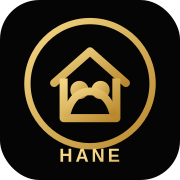
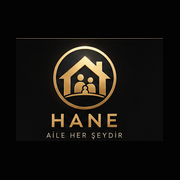
Add files via upload

diff --git a/app-v19.js b/app-v19.js
@@ -30,14 +30,31 @@ const money=n=>new Intl.NumberFormat('tr-TR',{style:'currency',currency:'TRY',ma
 const upper=v=>String(v??'').toLocaleUpperCase('tr-TR');
 function haneLogo(size=54,cls=''){
   const n=Math.max(28,Number(size)||54);
-  return `<svg class="haneLogo ${cls}" width="${n}" height="${n}" viewBox="0 0 100 100" aria-label="HANE">
-    <circle cx="50" cy="50" r="45" fill="none" stroke="currentColor" stroke-width="4"/>
-    <path d="M25 48 L50 27 L75 48" fill="none" stroke="currentColor" stroke-width="5" stroke-linecap="round" stroke-linejoin="round"/>
-    <path d="M31 45 V72 H69 V45" fill="none" stroke="currentColor" stroke-width="5" stroke-linejoin="round"/>
-    <circle cx="43" cy="53" r="6" fill="currentColor"/>
-    <circle cx="58" cy="53" r="6" fill="currentColor"/>
-    <path d="M34 69c2-10 8-15 16-15s14 5 16 15" fill="none" stroke="currentColor" stroke-width="5" stroke-linecap="round"/>
-  </svg>`;
+  return `<img class="haneLogoImg ${cls}" src="icons/hane-v5-emblem.jpg" width="${n}" alt="HANE">`;
+}
+function haneFullLogo(cls=''){
+  return `<img class="haneFullLogo ${cls}" src="icons/hane-v5-logo.jpg" alt="HANE">`;
+}
+function premiumIcon(name,size=26){
+  const p={
+home:`<path d="M4 11.5 12 4l8 7.5"/><path d="M6.5 10v10h11V10"/><path d="M10 20v-6h4v6"/>`,
+transactions:`<path d="M6 5h12M6 10h12M6 15h8M6 20h10"/><circle cx="3" cy="5" r="1"/><circle cx="3" cy="10" r="1"/><circle cx="3" cy="15" r="1"/><circle cx="3" cy="20" r="1"/>`,
+fixed:`<rect x="4" y="5" width="16" height="15" rx="2"/><path d="M8 3v4M16 3v4M4 10h16M8 14h3M8 17h6"/>`,
+cards:`<rect x="3" y="5" width="18" height="14" rx="3"/><path d="M3 9h18M7 15h5"/>`,
+settings:`<circle cx="12" cy="12" r="3"/><path d="M12 2.5v2M12 19.5v2M2.5 12h2M19.5 12h2M5.3 5.3l1.4 1.4M17.3 17.3l1.4 1.4M18.7 5.3l-1.4 1.4M6.7 17.3l-1.4 1.4"/><circle cx="12" cy="12" r="8"/>`,
+income:`<path d="M12 20V5m-5 5 5-5 5 5M5 20h14"/>`,
+expense:`<path d="M12 4v15m-5-5 5 5 5-5M5 4h14"/>`,
+report:`<path d="M5 20V10M10 20V5M15 20v-8M20 20V8M3 20h19"/>`,
+pluscard:`<rect x="3" y="6" width="18" height="13" rx="3"/><path d="M3 10h18M12 13v5M9.5 15.5h5"/>`,
+bell:`<path d="M6 17h12l-1.5-2.5V10a4.5 4.5 0 0 0-9 0v4.5zM10 20h4"/>`,
+lock:`<rect x="5" y="10" width="14" height="10" rx="2"/><path d="M8 10V7a4 4 0 0 1 8 0v3"/><circle cx="12" cy="15" r="1"/>`,
+palette:`<path d="M12 3a9 9 0 0 0 0 18h2a2 2 0 0 0 0-4h-1a1.5 1.5 0 0 1 0-3h2a6 6 0 0 0-3-11Z"/><circle cx="7.5" cy="9" r="1"/><circle cx="10" cy="6.5" r="1"/><circle cx="15" cy="7.5" r="1"/>`,
+backup:`<path d="M6 16a4 4 0 0 1 .5-8A6 6 0 0 1 18 9a3.5 3.5 0 0 1 0 7M12 11v9m-3.5-5 3.5-4 3.5 4"/>`,
+info:`<circle cx="12" cy="12" r="9"/><path d="M12 10v6"/><circle cx="12" cy="7" r=".8"/>`,
+trash:`<path d="M5 7h14M9 7V4h6v3M7 7l1 13h8l1-13M10 11v5M14 11v5"/>`,
+globe:`<circle cx="12" cy="12" r="9"/><path d="M3 12h18M12 3a15 15 0 0 1 0 18M12 3a15 15 0 0 0 0 18"/>`
+  };
+  return `<svg class="premiumSvg" width="${size}" height="${size}" viewBox="0 0 24 24" fill="none" aria-hidden="true">${p[name]||p.home}</svg>`;
 }
 function normalizeV19(st){
   st.cardPayments=Array.isArray(st.cardPayments)?st.cardPayments:[];
@@ -126,11 +143,11 @@ function cardPaymentInfo(c,base=new Date()){
 }
 function rec(){const t=new Date();let best=null;state.cards.forEach(c=>{const info=cardPaymentInfo(c,t),u=(+c.balance||0)/Math.max(1,+c.limit||1),score=info.days-(u>.8?20:u>.6?8:0);if(!best||score>best.score)best={...c,...info,score}});return best}
 function buildTopBar(){
-  if(current==='home')return`<div class="top homeTop"><div class="topSpacer"></div><div class="brand brandLogo">${haneLogo(30,'brandMark')}<span>HANE</span></div><button class="ib" data-tab="profile">⚙</button></div>`;
+  if(current==='home')return`<div class="top homeTop"><div class="topSpacer"></div><div class="brand brandLogo">${haneLogo(30,'brandMark')}<span>HANE</span></div><button class="ib premiumTopIcon" data-tab="profile">${premiumIcon("settings",24)}</button></div>`;
   const t={transactions:'HAREKETLER',fixed:'SABİT GİDERLER',cards:'KREDİ KARTLARIM',reports:'RAPORLAR',profile:'PROFİL AYARLARI',backup:'YEDEKLEME',settings:'UYGULAMA AYARLARI',theme:'TEMA STÜDYOSU',alerts:'BİLDİRİMLER',about:'HAKKINDA',monthSpent:'BU AY HARCANAN',monthPaid:'BU AY ÖDENEN'};
   return`<div class="top"><button class="back" data-action="back">‹</button><div class="brand">${t[current]||'HANE'}</div><div style="width:38px"></div></div>`
 }
-function nav(){return`<nav class="nav">${[['home','⌂','Ana Ekran'],['transactions','▤','Hareketler'],['fixed','▥','Giderler'],['cards','▭','Kartlar'],['profile','⚙','Ayarlar']].map(x=>`<button data-tab="${x[0]}" class="${current===x[0]?'active':''}"><span>${x[1]}</span><span>${x[2]}</span></button>`).join('')}</nav>`}
+function nav(){const items=[['home','home','ANA EKRAN'],['transactions','transactions','HAREKETLER'],['fixed','fixed','GİDERLER'],['cards','cards','KARTLAR'],['profile','settings','AYARLAR']];return`<nav class="nav premiumNav">${items.map(x=>`<button data-tab="${x[0]}" class="${current===x[0]?'active':''}"><span class="navIcon">${premiumIcon(x[1],30)}</span><span>${x[2]}</span></button>`).join('')}</nav>`}
 
 function monthLabel(m=state.selectedMonth){const [y,mo]=m.split('-').map(Number);return new Date(y,mo-1,1).toLocaleDateString('tr-TR',{month:'long',year:'numeric'}).toLocaleUpperCase('tr-TR')}
 function categoryStats(items){const map={};items.forEach(x=>{const k=x.category||'Diğer';map[k]=(map[k]||0)+(+x.amount||0)});return Object.entries(map).sort((a,b)=>b[1]-a[1])}
@@ -150,8 +167,8 @@ function home(){const T=totals(),F=cashFlow(),s=Math.max(1,Math.abs(T.i)+Math.ab
     <h2>${esc(state.profile.name||'HANE')}</h2>
     <div class="date">${new Date().toLocaleDateString('tr-TR',{day:'numeric',month:'long',year:'numeric',weekday:'long'})}</div>
   </div>
-  <button class="ib homeHeroBell" data-tab="alerts">🔔</button>
-</div><div class="quote"><b>Bugünün Sözü</b><span>“${q}”</span></div><div class="summary"><div class="sum"><label>Gelir</label><strong style="color:var(--green)">${money(T.i)}</strong></div><div class="sum"><label>Gider</label><strong style="color:var(--red)">${money(T.e)}</strong></div><div class="sum"><label>Kalan</label><strong style="color:var(--gold2)">${money(T.r)}</strong></div></div><div class="card donutBox" data-tab="reports"><div class="donut" style="--p1:${p1}%;--p2:${p2}%"><div class="donutC"><small>Kalan</small><b>${money(T.r)}</b></div></div><div class="legend"><div><i class="dot" style="background:var(--gi)"></i><span>Gelir</span><b>${money(T.i)}</b></div><div><i class="dot" style="background:var(--ge)"></i><span>Gider</span><b>${money(T.e)}</b></div><div><i class="dot" style="background:var(--gr)"></i><span>Kalan</span><b>${money(T.r)}</b></div></div></div><div class="section"><b>BU AY</b><span></span></div><div class="monthActionGrid"><button class="monthAction spentAction" data-tab="monthSpent"><i>⌂</i><span>BU AY HARCANAN</span><b>${money(F.spent)}</b><em>›</em></button><button class="monthAction paidAction" data-tab="monthPaid"><i>✓</i><span>BU AY ÖDENEN</span><b>${money(F.paid)}</b><em>›</em></button></div><div class="section"><b>Sana Özel Önerilen Kart</b><span data-action="goCards">Tümünü Gör ›</span></div>${r?`<div class="reco"><div class="recoHead"><span>Önerilen Kart</span><span>ⓘ</span></div><div class="recoGrid"><div class="miniCard ${r.style||'blackgold'}" data-action="editCard" data-id="${r.id}"><div class="bank">${esc(r.bank)}</div><div class="sub">${esc(r.name)} · ${esc(r.network||'VISA')}</div><div class="num">•••• •••• •••• ${esc(r.last4)}</div></div><div class="recoInfo"><div>Hesap Kesim<br><b>Ayın ${r.statementDay}'si</b></div><div>Ödeme Tarihi<br><b>${r.dueDate.toLocaleDateString('tr-TR',{day:'numeric',month:'short'})}</b></div><div>Kesim → Ödeme<br><b>${r.paymentWindowDays} Gün</b></div><button class="btn gold">Bu Kartı Kullan</button></div></div></div>`:`<div class="notice">Henüz kredi kartı eklenmedi.</div>`}<div class="section"><b>Hızlı İşlemler</b><span></span></div><div class="card quick"><button data-action="addIncome"><i>＋</i>Gelir Ekle</button><button data-action="addExpense"><i>−</i>Gider Ekle</button><button data-action="addCard"><i>▭</i>Kart Ekle</button><button data-tab="reports"><i>▥</i>Raporlar</button></div>`}
+  <button class="ib homeHeroBell premiumTopIcon" data-tab="alerts">${premiumIcon("bell",22)}</button>
+</div><div class="quote"><b>Bugünün Sözü</b><span>“${q}”</span></div><div class="summary"><div class="sum"><label>Gelir</label><strong style="color:var(--green)">${money(T.i)}</strong></div><div class="sum"><label>Gider</label><strong style="color:var(--red)">${money(T.e)}</strong></div><div class="sum"><label>Kalan</label><strong style="color:var(--gold2)">${money(T.r)}</strong></div></div><div class="card donutBox" data-tab="reports"><div class="donut" style="--p1:${p1}%;--p2:${p2}%"><div class="donutC"><small>Kalan</small><b>${money(T.r)}</b></div></div><div class="legend"><div><i class="dot" style="background:var(--gi)"></i><span>Gelir</span><b>${money(T.i)}</b></div><div><i class="dot" style="background:var(--ge)"></i><span>Gider</span><b>${money(T.e)}</b></div><div><i class="dot" style="background:var(--gr)"></i><span>Kalan</span><b>${money(T.r)}</b></div></div></div><div class="section"><b>BU AY</b><span></span></div><div class="monthActionGrid"><button class="monthAction spentAction" data-tab="monthSpent"><i>${premiumIcon("expense",27)}</i><span>BU AY HARCANAN</span><b>${money(F.spent)}</b><em>›</em></button><button class="monthAction paidAction" data-tab="monthPaid"><i>${premiumIcon("cards",27)}</i><span>BU AY ÖDENEN</span><b>${money(F.paid)}</b><em>›</em></button></div><div class="section"><b>Sana Özel Önerilen Kart</b><span data-action="goCards">Tümünü Gör ›</span></div>${r?`<div class="reco"><div class="recoHead"><span>Önerilen Kart</span><span>ⓘ</span></div><div class="recoGrid"><div class="miniCard ${r.style||'blackgold'}" data-action="editCard" data-id="${r.id}"><div class="bank">${esc(r.bank)}</div><div class="sub">${esc(r.name)} · ${esc(r.network||'VISA')}</div><div class="num">•••• •••• •••• ${esc(r.last4)}</div></div><div class="recoInfo"><div>Hesap Kesim<br><b>Ayın ${r.statementDay}'si</b></div><div>Ödeme Tarihi<br><b>${r.dueDate.toLocaleDateString('tr-TR',{day:'numeric',month:'short'})}</b></div><div>Kesim → Ödeme<br><b>${r.paymentWindowDays} Gün</b></div><button class="btn gold">Bu Kartı Kullan</button></div></div></div>`:`<div class="notice">Henüz kredi kartı eklenmedi.</div>`}<div class="section"><b>Hızlı İşlemler</b><span></span></div><div class="card quick"><button data-action="addIncome"><i>${premiumIcon("income",28)}</i>GELİR EKLE</button><button data-action="addExpense"><i>${premiumIcon("expense",28)}</i>GİDER EKLE</button><button data-action="addCard"><i>${premiumIcon("pluscard",28)}</i>KART EKLE</button><button data-tab="reports"><i>${premiumIcon("report",28)}</i>RAPORLAR</button></div>`}
 function row(x){
   if(x.type==='cardPayment')return`<div class="item" data-action="editCardPayment" data-id="${x.id}"><div class="ico">▭</div><div><b>Kredi Kartı Ödemesi</b><small>${x.date} · Borç kapatma · Gidere dahil değil</small></div><div class="right"><b style="color:var(--gold2)">${money(x.amount)}</b></div></div>`;
   return`<div class="item" data-action="${x.type==='income'?'editIncome':'editExpense'}" data-id="${x.id}"><div class="ico">${x.type==='income'?'₺':I[x.category]||'●'}</div><div><b>${esc(x.title)}</b><small>${x.date}${x.recurring?' · Sabit':''}${x.source==='card'?' · Kart harcaması':''}</small></div><div class="right"><b style="color:${x.type==='income'?'var(--green)':'var(--red)'}">${x.type==='income'?'+':'-'}${money(x.amount)}</b></div></div>`
@@ -198,22 +215,22 @@ function profile(){return`<div class="profile card">
   <button class="btn profileEditBtn" data-action="editProfile">PROFİLİ DÜZENLE</button>
 </div>
 <div class="card" style="margin-top:12px">
-  <div class="setting" data-action="editProfile"><span>●</span><span>Profil Resmi ve İsim</span><b>›</b></div>
-  <div class="setting" data-action="changePin"><span>🔒</span><span>PIN Değiştir</span><b>›</b></div>
-  <div class="setting"><span>⏱</span><span>Otomatik Kilit</span><b>${state.settings.lockMinutes} Dakika</b></div>
-  <div class="setting" data-action="openTheme"><span>🎨</span><span>Tema Stüdyosu</span><b>›</b></div>
-  <div class="setting" data-tab="backup"><span>☁</span><span>Yedekleme</span><b>›</b></div>
-  <div class="setting" data-tab="settings"><span>⚙</span><span>Uygulama Ayarları</span><b>›</b></div>
+  <div class="setting" data-action="editProfile"><span class="settingIco">${premiumIcon("home",24)}</span><span>PROFİL RESMİ VE İSİM</span><b>›</b></div>
+  <div class="setting" data-action="changePin"><span class="settingIco">${premiumIcon("lock",24)}</span><span>PIN DEĞİŞTİR</span><b>›</b></div>
+  <div class="setting"><span class="settingIco">${premiumIcon("lock",24)}</span><span>OTOMATİK KİLİT</span><b>${state.settings.lockMinutes} Dakika</b></div>
+  <div class="setting" data-action="openTheme"><span class="settingIco">${premiumIcon("palette",24)}</span><span>TEMA STÜDYOSU</span><b>›</b></div>
+  <div class="setting" data-tab="backup"><span class="settingIco">${premiumIcon("backup",24)}</span><span>YEDEKLEME</span><b>›</b></div>
+  <div class="setting" data-tab="settings"><span class="settingIco">${premiumIcon("settings",24)}</span><span>UYGULAMA AYARLARI</span><b>›</b></div>
 </div>`}
 function backup(){return`<div class="card" style="padding:15px"><div class="section"><b>Yedek Oluştur</b><span></span></div><div class="notice">Tüm verilerini şifreli .hane dosyası olarak dışa aktar.</div><button class="btn gold" style="width:100%;margin-top:12px" data-action="backupNow">Yedek Oluştur</button></div><div class="card" style="padding:15px;margin-top:12px"><div class="section"><b>Yedekten Geri Yükle</b><span></span></div><button class="btn" style="width:100%" data-action="restoreNow">Yedekten Geri Yükle</button></div>`}
-function settings(){return`<div class="card"><div class="setting"><span>🔔</span><span>Bildirimler</span><b>${state.settings.notifications?'Açık':'Kapalı'}</b></div><div class="setting"><span>🌐</span><span>Dil</span><b>Türkçe</b></div><div class="setting" data-tab="about"><span>ⓘ</span><span>Hakkında</span><b>›</b></div><div class="setting" data-action="clearAll"><span>🗑</span><span style="color:var(--red)">Tüm Verileri Sıfırla</span><b></b></div></div>`}
+function settings(){return`<div class="card"><div class="setting"><span class="settingIco">${premiumIcon("bell",24)}</span><span>BİLDİRİMLER</span><b>${state.settings.notifications?'Açık':'Kapalı'}</b></div><div class="setting"><span class="settingIco">${premiumIcon("globe",24)}</span><span>DİL</span><b>Türkçe</b></div><div class="setting" data-tab="about"><span class="settingIco">${premiumIcon("info",24)}</span><span>HAKKINDA</span><b>›</b></div><div class="setting" data-action="clearAll"><span class="settingIco dangerIco">${premiumIcon("trash",24)}</span><span style="color:var(--red)">TÜM VERİLERİ SIFIRLA</span><b></b></div></div>`}
 function theme(){
   if(!themeDraft) themeDraft={...(state.theme||{bg:'#000000',accent:'#d8ad4f',income:'#248ef5',expense:'#ff4658',remain:'#16d77d'})};
   const t=themeDraft;
   return`<div class="section"><b>Tema Stüdyosu</b><span>Kaydetmeden uygulanmaz</span></div><div class="preview" style="background:${t.bg};border-color:${t.accent}"><div style="display:flex;justify-content:space-between;align-items:center;margin-bottom:10px"><b style="color:${t.accent}">Canlı Önizleme</b><small style="color:#aaa">Sadece önizleme</small></div><div class="summary"><div class="sum" style="border-color:${t.accent}55"><label>Gelir</label><strong style="color:${t.income}">₺25.000</strong></div><div class="sum" style="border-color:${t.accent}55"><label>Gider</label><strong style="color:${t.expense}">₺12.550</strong></div><div class="sum" style="border-color:${t.accent}55"><label>Kalan</label><strong style="color:${t.remain}">₺12.450</strong></div></div><div style="height:10px;border-radius:99px;background:linear-gradient(90deg,${t.income} 0 33%,${t.expense} 33% 66%,${t.remain} 66% 100%);margin-top:10px"></div></div><div class="card" style="margin-top:12px"><div class="setting" data-action="pickBg"><span>◼</span><span>Arka Plan Rengi</span><b style="color:${t.bg};text-shadow:0 0 0 #777">■</b></div><div class="setting" data-action="pickAccent"><span>✦</span><span>Detay Rengi</span><b style="color:${t.accent}">■</b></div><div class="setting" data-action="pickIncome"><span>●</span><span>Grafik · Gelir</span><b style="color:${t.income}">■</b></div><div class="setting" data-action="pickExpense"><span>●</span><span>Grafik · Gider</span><b style="color:${t.expense}">■</b></div><div class="setting" data-action="pickRemain"><span>●</span><span>Grafik · Kalan</span><b style="color:${t.remain}">■</b></div></div><div class="section"><b>Hazır Temalar</b><span></span></div><div class="themeGrid">${[['Klasik Siyah','#000000','#d8ad4f'],['Lacivert','#06111f','#4da3ff'],['Koyu Yeşil','#05130d','#41d98c'],['Bordo','#1a080b','#e4a0aa']].map(a=>`<div class="themeCard" data-action="preset" data-bg="${a[1]}" data-accent="${a[2]}"><div class="swatch" style="background:${a[1]};border:1px solid ${a[2]}"></div><b>${a[0]}</b></div>`).join('')}</div><div style="display:grid;grid-template-columns:1fr 1fr;gap:8px;margin-top:14px"><button class="btn" data-action="resetTheme">Varsayılana Dön</button><button class="btn gold" data-action="saveTheme">Kaydet</button></div><button class="btn" style="width:100%;margin-top:8px" data-action="cancelTheme">İptal</button>`
 }
 function alerts(){return`<div class="notice">Ödenmemiş giderler ve kart borçları burada görünecek. Ödeme yapıldığında kaydı düzenleyip “Ödendi” olarak işaretleyebilirsin.</div>`}
-function about(){return`<div class="profile"><div class="logoSvgWrap">${haneLogo(84)}</div><h1 style="color:var(--gold2)">HANE</h1><p>SÜRÜM 1.9.0</p><p>PREMİUM EV BÜTÇEN.<br>VERİLERİN CİHAZINDA ŞİFRELİ SAKLANIR.</p></div>`}
+function about(){return`<div class="profile"><div class="aboutV5Logo">${haneFullLogo("aboutV5")}</div><p>SÜRÜM 1.9.0</p><p>PREMİUM EV BÜTÇEN.<br>VERİLERİN CİHAZINDA ŞİFRELİ SAKLANIR.</p></div>`}
 function view(){return({home,transactions,fixed,cards,reports,profile,backup,settings,theme,alerts,about,monthSpent,monthPaid}[current]||home)()}
 function input(n,l,v='',type='text',extra=''){const attrs=type==='text'?'autocapitalize="characters" autocorrect="on" autocomplete="on" spellcheck="true"':'';return`<div class="field"><label>${l}</label><input name="${n}" type="${type}" value="${esc(v)}" ${attrs} ${extra}></div>`}
 function select(n,l,opts,v=''){return`<div class="field"><label>${l}</label><select name="${n}">${opts.map(o=>`<option ${o===v?'selected':''}>${esc(o)}</option>`).join('')}</select></div>`}
@@ -473,7 +490,7 @@ async function backupNow(){const p={format:'HANE-LOCKED-BACKUP',meta:meta(),data
 async function changePin(){const o=prompt('Mevcut PIN');if(!o||!(await unlock(o))){alert('PIN yanlış');return}const n=prompt('Yeni 4 haneli PIN');if(!/^\d{4}$/.test(n||'')){alert('PIN 4 haneli olmalı');return}const salt=crypto.getRandomValues(new Uint8Array(16)),k=await derive(n,salt),box=await encrypt(state,k);localStorage.setItem(DATA,JSON.stringify(box));localStorage.setItem(META,JSON.stringify({salt:b64(salt),name:state.profile.name,photo:state.profile.photo||''}));key=k;alert('PIN değiştirildi')}
 function schedule(){clearTimeout(timer);if(state)timer=setTimeout(lock,Math.max(1,+state.settings.lockMinutes||15)*60000)}function lock(){state=null;key=null;pin='';renderLock()}
 function renderSetup(){$('#app').innerHTML=`<div class="setup premiumSetup"><div class="lockLogoWrap">${haneLogo(72)}</div><h1>HANE</h1><p>PREMİUM EV BÜTÇEN</p><form class="form" id="setupForm" style="width:100%"><button type="button" class="btn" id="photoBtn">PROFİL RESMİNİ DEĞİŞTİR</button>${input('name','İsim','')}${input('pin','4 Haneli PIN','','password','inputmode="numeric" maxlength="4"')}${input('pin2','PIN Tekrar','','password','inputmode="numeric" maxlength="4"')}<button class="btn gold">HANE’yi Kur</button></form><div class="notice" style="margin-top:12px;width:100%">İlk kurulumda tüm tutarlar ₺0 başlar.</div></div>`;$('#photoBtn').onclick=()=>$('#profileInput').click();$('#setupForm').onsubmit=async e=>{e.preventDefault();const d=Object.fromEntries(new FormData(e.target).entries());if(!/^\d{4}$/.test(d.pin)||d.pin!==d.pin2){alert('PIN 4 haneli ve aynı olmalı');return}const st=def();st.profile.name=upper(d.name||'HANE');st.profile.photo=setupPhoto;await setup(d.pin,st);render();schedule()}}
-function renderLock(){if(!meta()){renderSetup();return}pin='';const m=meta()||{};$('#app').innerHTML=`<div class="lock premiumHaneLock"><div class="lockLogoWrap">${haneLogo(68)}</div><div class="lockBrandName">HANE</div><div class="lockWelcome">HANE'YE HOŞ GELDİN</div><div class="lockAvatar ava">${m.photo?`<img src="${m.photo}">`:esc((m.name||'H')[0])}</div><h2>${esc(m.name||'HANE')}</h2><div class="pinDots">${[0,1,2,3].map(i=>`<i data-dot="${i}"></i>`).join('')}</div><div class="keypad premiumKeypad">${[1,2,3,4,5,6,7,8,9].map(n=>`<button type="button" data-key="${n}">${n}</button>`).join('')}<button type="button" class="blankKey" disabled>◎</button><button type="button" data-key="0">0</button><button type="button" class="del" data-key="del">⌫</button></div><button type="button" class="lockOk" id="lockOk">✓ TAMAM</button></div>`;$$('[data-key]').forEach(b=>b.onclick=()=>pinKey(b.dataset.key));$('#lockOk').onclick=confirmPin}
+function renderLock(){if(!meta()){renderSetup();return}pin='';const m=meta()||{};$('#app').innerHTML=`<div class="lock premiumHaneLock"><div class="exactV5Lock">${haneFullLogo("lockV5Logo")}</div><div class="lockWelcome">HANE'YE HOŞ GELDİN</div><div class="lockAvatar ava">${m.photo?`<img src="${m.photo}">`:esc((m.name||'H')[0])}</div><h2>${esc(m.name||'HANE')}</h2><div class="pinDots">${[0,1,2,3].map(i=>`<i data-dot="${i}"></i>`).join('')}</div><div class="keypad premiumKeypad">${[1,2,3,4,5,6,7,8,9].map(n=>`<button type="button" data-key="${n}">${n}</button>`).join('')}<button type="button" class="blankKey" disabled>◎</button><button type="button" data-key="0">0</button><button type="button" class="del" data-key="del">⌫</button></div><button type="button" class="lockOk" id="lockOk">✓ TAMAM</button></div>`;$$('[data-key]').forEach(b=>b.onclick=()=>pinKey(b.dataset.key));$('#lockOk').onclick=confirmPin}
 async function pinKey(k){if(k==='del')pin=pin.slice(0,-1);else if(/^\d$/.test(String(k))&&pin.length<4)pin+=String(k);$$('[data-dot]').forEach((d,i)=>d.classList.toggle('on',i<pin.length))}
 async function confirmPin(){if(pin.length!==4){alert('4 HANELİ PIN GİR');return}if(await unlock(pin)){pin='';render();schedule();return}pin='';$$('[data-dot]').forEach(d=>d.classList.remove('on'));alert('PIN YANLIŞ')}
 function modalWrap(){return modal?`<div class="modal"><div class="sheet"><div class="sheetHead"><b>${modal.title}</b><button class="close" data-action="close">×</button></div>${modal.body}</div></div>`:''}

diff --git a/styles.css b/styles.css
@@ -589,3 +589,15 @@ a,button,.setting,.item,.section span{
 .premiumHaneLock{justify-content:flex-start!important;padding-top:calc(22px + var(--safeT))!important;overflow:auto}.lockBrandName{color:var(--gold2);font-weight:900;letter-spacing:.22em;font-size:18px;margin-top:2px}.lockWelcome{color:#fff;font-size:9px;letter-spacing:.10em;margin-top:6px}.lockAvatar{width:72px!important;height:72px!important;margin-top:12px!important;font-size:24px!important}.premiumHaneLock h2{font-size:14px;margin:7px 0 0;color:#fff}.premiumKeypad{grid-template-columns:repeat(3,64px)!important;gap:9px!important}.premiumKeypad button{width:64px!important;height:54px!important;border-color:rgba(216,173,79,.42)!important;background:linear-gradient(145deg,#111,#070707)!important;font-size:20px!important}.blankKey{opacity:.28}.lockOk{width:min(270px,78vw);height:38px;margin-top:12px;border:0;border-radius:11px;background:linear-gradient(145deg,#f2d17d,#be8f34);color:#111;font-size:11px;font-weight:900}.premiumHaneLock .pinDots{margin:13px 0!important}.premiumHaneLock .pinDots i{background:#3d3d3d}.premiumHaneLock .pinDots .on{background:var(--gold2)}
 .cropOverlay{position:fixed;inset:0;background:rgba(0,0,0,.9);z-index:140;display:flex;align-items:flex-end;justify-content:center}.cropSheet{width:100%;max-width:430px;background:#050505;border:1px solid #2d2d2d;border-radius:22px 22px 0 0;padding:14px 14px calc(20px + var(--safeB))}.cropHead{display:flex;align-items:center;justify-content:space-between;margin-bottom:10px}.cropHead b{font-size:11px;color:#fff}.cropHead button{border:0;background:none;color:#fff;font-size:24px}.cropStage{position:relative;width:min(320px,88vw);aspect-ratio:1;margin:0 auto;border-radius:14px;overflow:hidden;background:#000;touch-action:none}#cropCanvas{width:100%;height:100%;display:block;touch-action:none}.cropGuide{position:absolute;inset:10%;border:1px solid rgba(216,173,79,.6);border-radius:50%;pointer-events:none}.cropZoomLabel{display:block;font-size:8px;color:#fff;font-weight:900;margin:10px 0 5px}.cropSheet input[type="range"]{width:100%;accent-color:var(--gold2)}.cropActions{display:grid;grid-template-columns:1fr 1fr;gap:8px;margin-top:10px}
 @media(max-height:700px){.premiumHaneLock{padding-top:calc(12px + var(--safeT))!important}.lockAvatar{width:58px!important;height:58px!important;margin-top:7px!important}.premiumKeypad{grid-template-columns:repeat(3,58px)!important;gap:7px!important}.premiumKeypad button{width:58px!important;height:48px!important}.lockOk{height:34px;margin-top:8px}}
+
+/* V19.1 — V5 logo + premium icon set */
+.haneLogoImg{object-fit:cover;object-position:center;background:#050505;border-radius:50%;filter:drop-shadow(0 4px 10px rgba(225,184,90,.22))}
+.haneFullLogo{display:block;max-width:100%;height:auto;object-fit:contain}.exactV5Lock{width:190px;max-width:58vw;margin:0 auto 3px}.lockV5Logo,.aboutV5{border-radius:18px}.aboutV5Logo{width:220px;max-width:75vw;margin:0 auto 10px}
+.premiumSvg{stroke:currentColor;stroke-width:1.65;stroke-linecap:round;stroke-linejoin:round;overflow:visible}
+.premiumNav .navIcon{width:42px;height:38px;border-radius:13px;display:grid;place-items:center;color:#a9adb2;border:1px solid transparent;background:linear-gradient(145deg,#0d0e10,#050505)}
+.premiumNav button.active .navIcon{color:var(--gold2);border-color:rgba(216,173,79,.50);background:radial-gradient(circle at 35% 25%,rgba(244,215,134,.16),transparent 48%),linear-gradient(145deg,#17130a,#080808);box-shadow:0 0 18px rgba(216,173,79,.12)}
+.premiumNav button>span:last-child{font-size:8px!important;font-weight:800!important;letter-spacing:.025em}.premiumNav button.active>span:last-child{color:var(--gold2)!important}
+.quick button i{width:48px!important;height:44px!important;border-radius:14px!important;display:grid!important;place-items:center!important;background:radial-gradient(circle at 30% 22%,rgba(244,215,134,.15),transparent 44%),linear-gradient(145deg,#17130a,#080808)!important;border:1px solid rgba(216,173,79,.46)!important;color:var(--gold2)!important;margin:0 auto 7px!important}
+.quick button{font-size:9px!important;font-weight:850!important;color:#fff!important}
+.settingIco{width:42px;height:42px;border-radius:13px;display:grid!important;place-items:center!important;color:var(--gold2);border:1px solid rgba(216,173,79,.38);background:radial-gradient(circle at 30% 20%,rgba(244,215,134,.12),transparent 46%),linear-gradient(145deg,#15120b,#080808)}
+.settingIco.dangerIco{color:var(--red);border-color:rgba(255,70,88,.35)}.setting{min-height:58px!important}.setting>span:nth-child(2){font-size:10px!important;font-weight:800!important;color:#fff}.premiumTopIcon{color:var(--gold2)!important}

diff --git a/index.html b/index.html
@@ -15,7 +15,7 @@
 
 <link rel="manifest" href="./manifest.json">
 <link rel="apple-touch-icon" href="./icons/icon-180.png">
-<link rel="stylesheet" href="./styles.css?v=19">
+<link rel="stylesheet" href="./styles.css?v=19.1">
 <title>HANE</title>
 </head>
 <body>
@@ -23,6 +23,6 @@
 <input id="profileInput" type="file" accept="image/*" hidden>
 <input id="receiptInput" type="file" accept="image/*" capture="environment" hidden>
 <input id="restoreInput" type="file" hidden>
-<script defer src="./app-v19.js?v=19"></script>
+<script defer src="./app-v19.js?v=19.1"></script>
 </body>
 </html>
